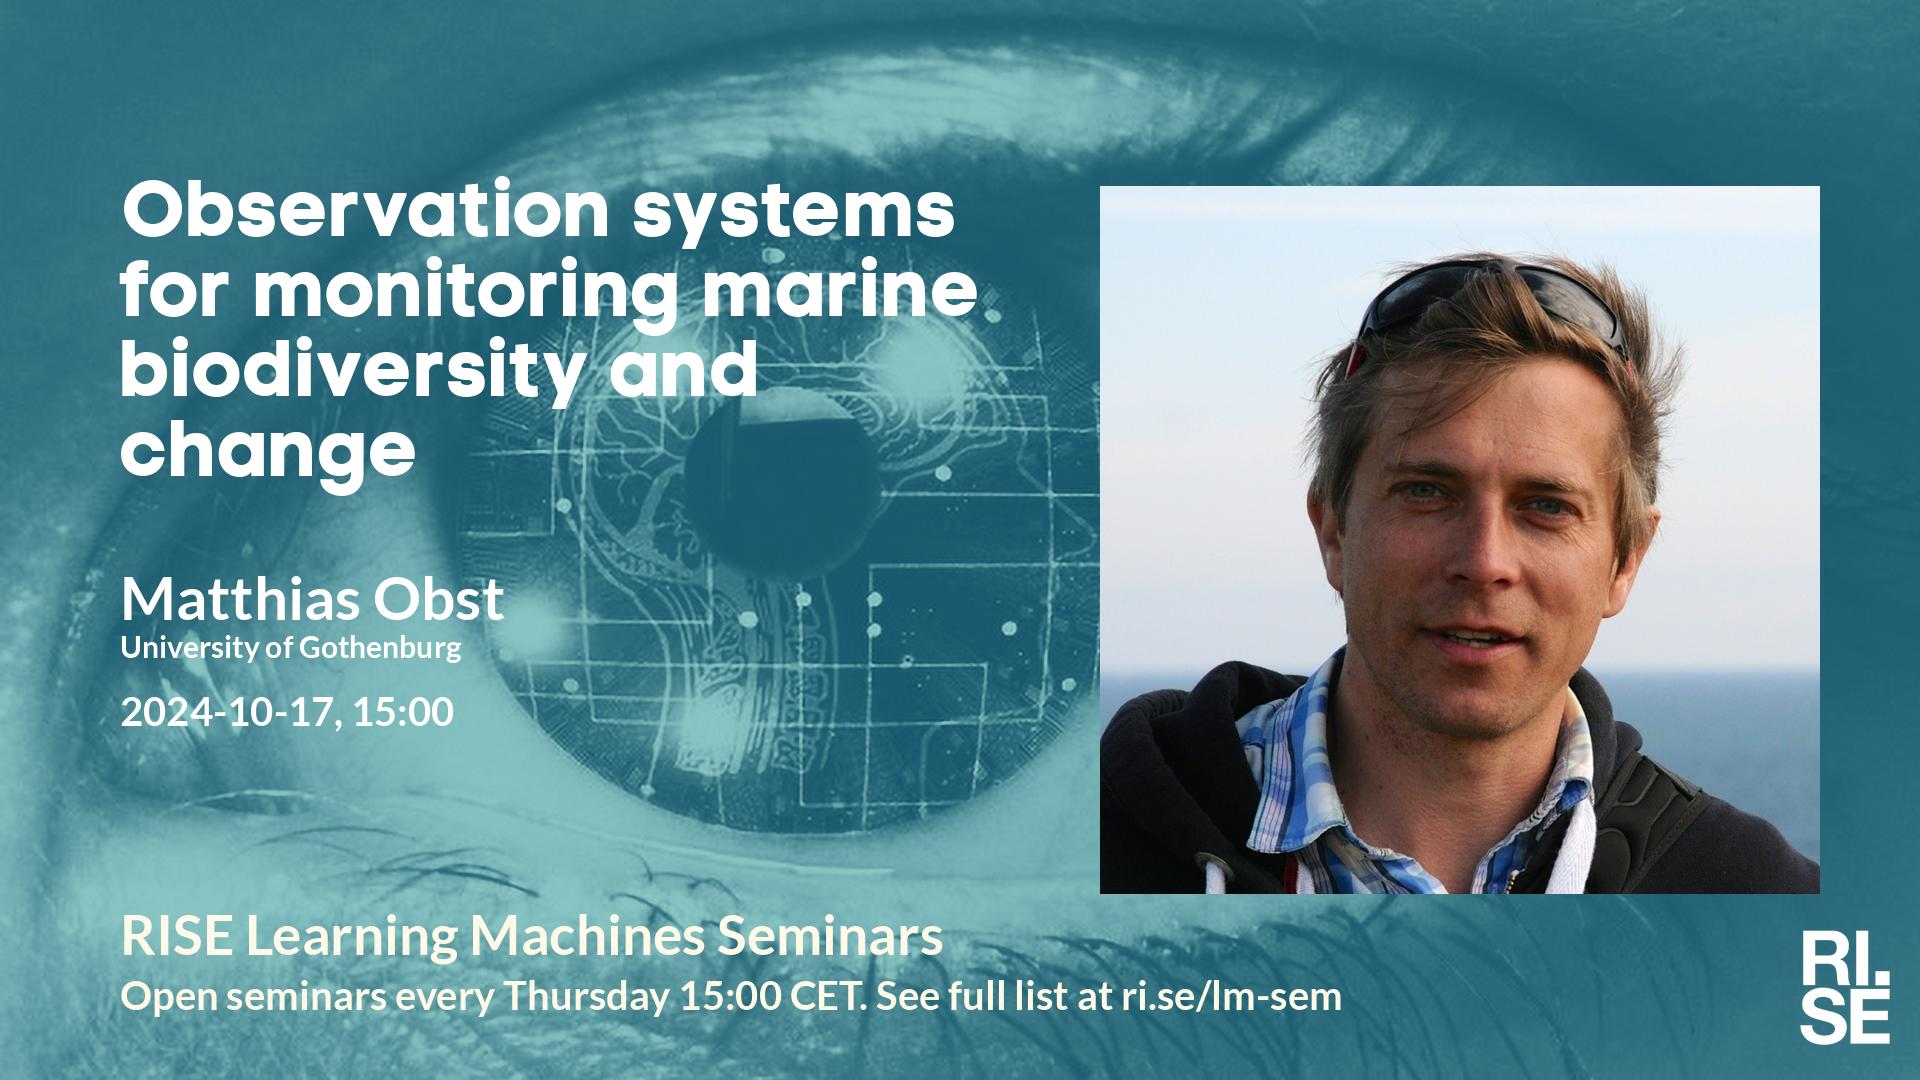
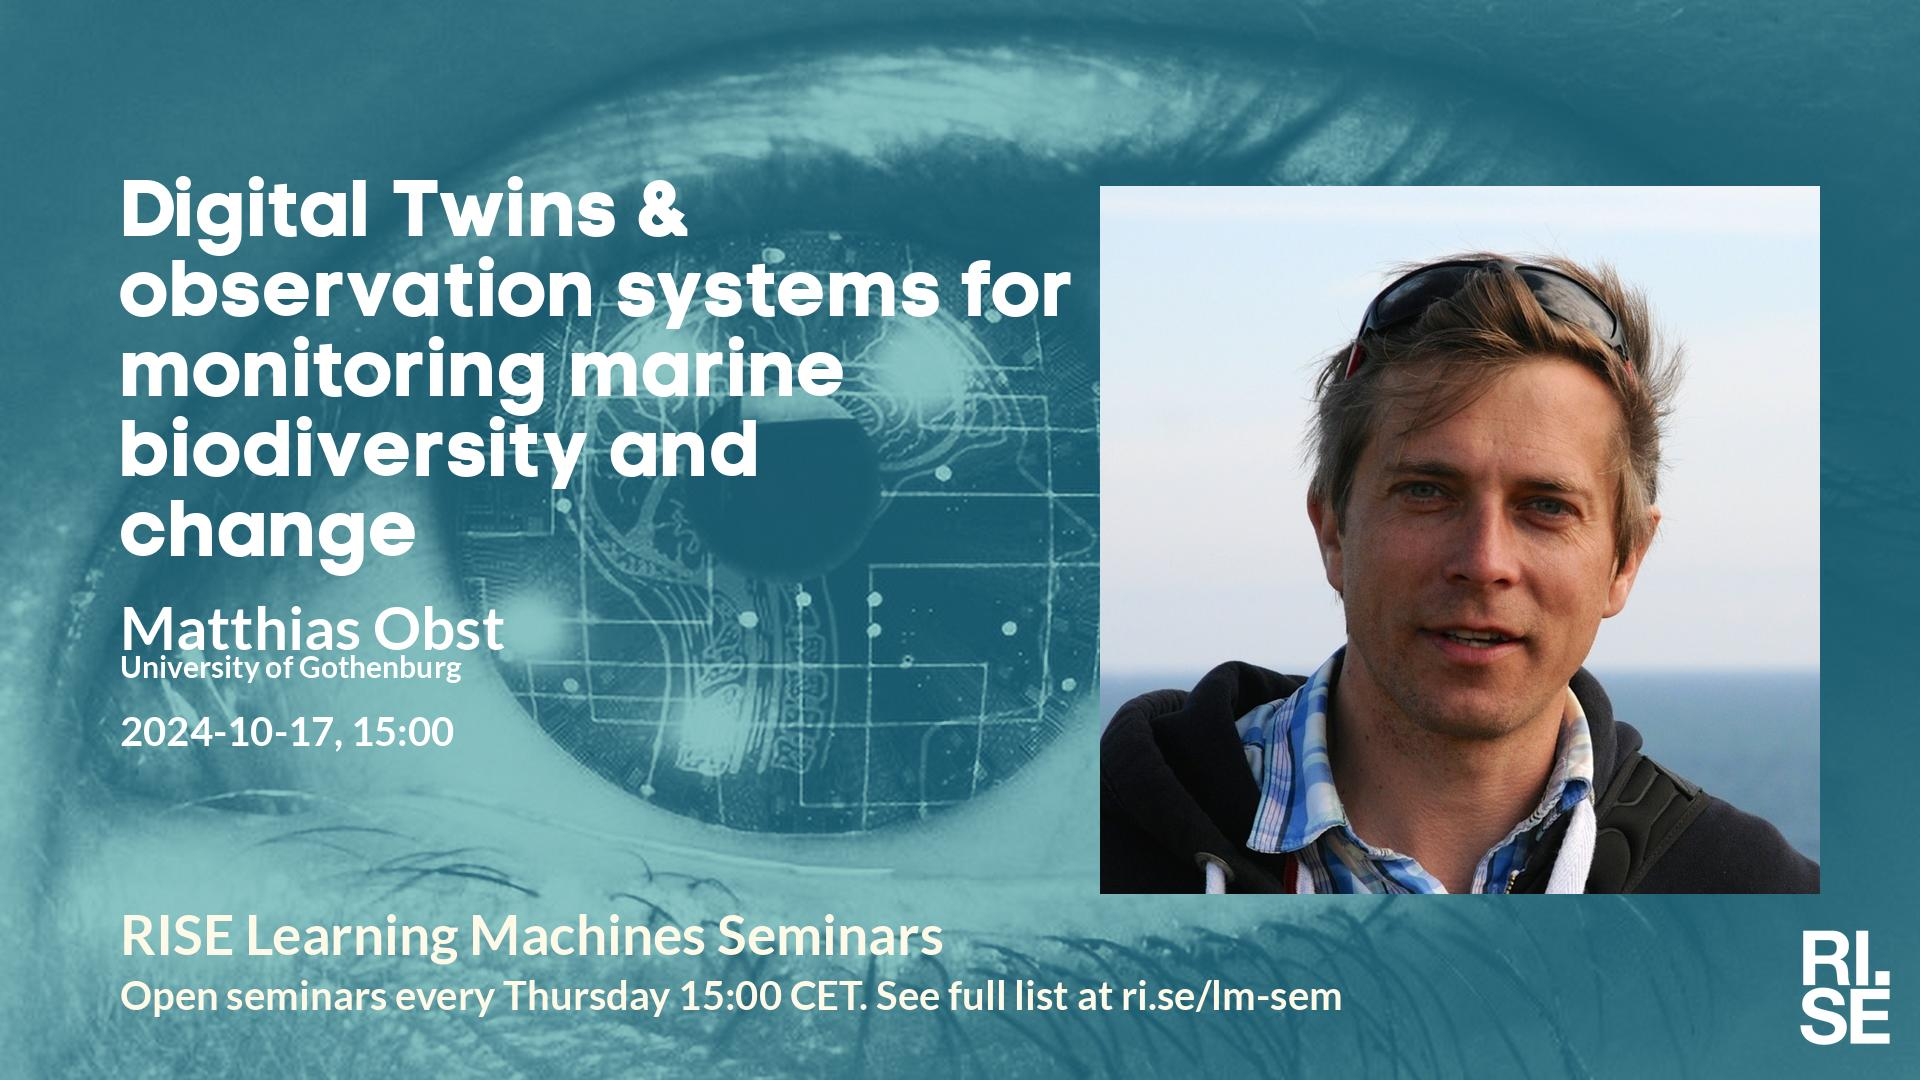
Updated plan on web site.

Changed region(s): [[0.0625, 0.1528, 0.5625, 0.7028]]

diff --git a/lm/index.md b/lm/index.md
@@ -13,14 +13,14 @@ table {border-collapse: collapse;}
 |  2024-09-26  |  [Charlie Fieseler, University of Vienna](2024-09-26.md)  |  [photo](photo-charlie-fieseler.jpg)  |  [social media ](social-media-charlie-fieseler.jpg)  |  [meeting backdrop ](meeting-backdrop-charlie-fieseler.jpg)  |  [youtube thumbnail ](youtube-thumbnail-charlie-fieseler.jpg)  |  STABP  |
 |  2024-10-03  |  [Jakob Ambsdorf, University of Copenhagen & Pioneer Centre for AI](2024-10-03.md)  |  [photo](photo-jakob-ambsdorf.jpg)  |  [social media ](social-media-jakob-ambsdorf.jpg)  |  [meeting backdrop ](meeting-backdrop-jakob-ambsdorf.jpg)  |  [youtube thumbnail ](youtube-thumbnail-jakob-ambsdorf.jpg)  |  STABP  |
 | <span style="color:red"> 2024-10-10 </span> | <span style="color:red"> CANCELLED </span> | <span style="color:red">  </span> | <span style="color:red">  </span> | <span style="color:red">  </span> | <span style="color:red">  </span> | <span style="color:red"> CANCELLED </span> |
-|  2024-10-17  |  [Matthias Obst, University of Gothenburg](2024-10-17.md)  |  [photo](photo-matthias-obst.jpg)  |  [social media ](social-media-matthias-obst.jpg)  |  [meeting backdrop ](meeting-backdrop-matthias-obst.jpg)  |  [youtube thumbnail ](youtube-thumbnail-matthias-obst.jpg)  |  ST~~AB~~P  |
+|  2024-10-17  |  [Matthias Obst, University of Gothenburg](2024-10-17.md)  |  [photo](photo-matthias-obst.jpg)  |  [social media ](social-media-matthias-obst.jpg)  |  [meeting backdrop ](meeting-backdrop-matthias-obst.jpg)  |  [youtube thumbnail ](youtube-thumbnail-matthias-obst.jpg)  |  STABP  |
 |  2024-10-24  |  [Ankit Kariryaa, University of Copenhagen](2024-10-24.md)  |    |  [social media ](social-media-ankit-kariryaa.jpg)  |  [meeting backdrop ](meeting-backdrop-ankit-kariryaa.jpg)  |  [youtube thumbnail ](youtube-thumbnail-ankit-kariryaa.jpg)  |  S~~TABP~~  |
 | <span style="color:red"> 2024-10-31 </span> | <span style="color:red"> Höstlov </span> | <span style="color:red">  </span> | <span style="color:red">  </span> | <span style="color:red">  </span> | <span style="color:red">  </span> | <span style="color:red"> CANCELLED </span> |
 |  2024-11-07  |  [Joel Oskarsson, Linköping University](2024-11-07.md)  |    |  [social media ](social-media-joel-oskarsson.jpg)  |  [meeting backdrop ](meeting-backdrop-joel-oskarsson.jpg)  |  [youtube thumbnail ](youtube-thumbnail-joel-oskarsson.jpg)  |  S~~TABP~~  |
 |  2024-11-14  |  [Abdulhakim Abdi, Lund University](2024-11-14.md)  |  [photo](photo-abdulhakim-abdi.jpg)  |  [social media ](social-media-abdulhakim-abdi.jpg)  |  [meeting backdrop ](meeting-backdrop-abdulhakim-abdi.jpg)  |  [youtube thumbnail ](youtube-thumbnail-abdulhakim-abdi.jpg)  |  S~~TAB~~P  |
 |  2024-11-21  |  [Alp Kucukelbir, Columbia University](2024-11-21.md)  |    |  [social media ](social-media-alp-kucukelbir.jpg)  |  [meeting backdrop ](meeting-backdrop-alp-kucukelbir.jpg)  |  [youtube thumbnail ](youtube-thumbnail-alp-kucukelbir.jpg)  |  S~~TABP~~  |
 |  2024-11-28  |  [Alireza Taheri Dehkordi, Lund University](2024-11-28.md)  |    |  [social media ](social-media-alireza-taheri-dehkordi.jpg)  |  [meeting backdrop ](meeting-backdrop-alireza-taheri-dehkordi.jpg)  |  [youtube thumbnail ](youtube-thumbnail-alireza-taheri-dehkordi.jpg)  |  S~~TABP~~  |
-| <span style="color:grey"> 2024-12-05 </span> | <span style="color:grey"> Jonas A. ? </span> | <span style="color:grey">  </span> | <span style="color:grey">  </span> | <span style="color:grey">  </span> | <span style="color:grey">  </span> | <span style="color:grey"> ?~~TABP~~ </span> |
+| <span style="color:grey"> 2024-12-05 </span> | <span style="color:grey"> Jonas A. ? </span> | <span style="color:grey">  </span> | <span style="color:grey">  </span> | <span style="color:grey">  </span> | <span style="color:grey">  </span> | <span style="color:grey"> S~~TABP~~ </span> |
 |  2024-12-12  |  [Amal Nammouchi, Karlstad University and AfriClimate AI](2024-12-12.md)  |    |  [social media ](social-media-amal-nammouchi.jpg)  |  [meeting backdrop ](meeting-backdrop-amal-nammouchi.jpg)  |  [youtube thumbnail ](youtube-thumbnail-amal-nammouchi.jpg)  |  S~~TABP~~  |
 | <span style="color:red"> 2024-12-19 </span> | <span style="color:red"> Jullov </span> | <span style="color:red">  </span> | <span style="color:red">  </span> | <span style="color:red">  </span> | <span style="color:red">  </span> | <span style="color:red"> CANCELLED </span> |
 | <span style="color:red"> 2024-12-26 </span> | <span style="color:red"> Jullov </span> | <span style="color:red">  </span> | <span style="color:red">  </span> | <span style="color:red">  </span> | <span style="color:red">  </span> | <span style="color:red"> CANCELLED </span> |

diff --git a/lm/2024-10-17.md b/lm/2024-10-17.md
@@ -4,13 +4,15 @@ metatags: "<meta name=\"robots\" content=\"noindex,nofollow\" />"
 ---
 Welcome to this week's Learning Machines seminar.
 
-**Title:** Observation systems for monitoring marine biodiversity and change
+**Title:** Digital Twins & observation systems for monitoring marine biodiversity and change
 
 **Speaker:** Matthias Obst, University of Gothenburg
 
-**Abstract:** N/A
+**Abstract:** Biological monitoring needs to improve radically to serve our understanding of marine ecosystems and biodiversity under long-term global change and multiple stressors. Over the last decade many new monitoring technologies including genomics and image-based surveillance have become available to marine biologists. However, the transformation to such new high-throughput methods is not trivial as they produce enormous volumes of data. The Digital Twin of the Ocean (DTO) program of the European Commission will answer to these challenges and develop an analytical environment that brings together data, models, and algorithms to support effective monitoring, restoration, and management of marine ecosystems by 2030. Sweden plays an active role in the DTO program, and this talk will introduce some examples of new monitoring methods, tools and analytical services developed by Swedish partners, including the Genetic Biodiversity Observatory Networks and the Swedish platform for subsea image analysis (SUBSIM).
 
-**About the speaker:** N/A
+**About the speaker:** Matthias Obst has 17 years of experience as academic researcher, infrastructure developer, project manager and entrepreneur in the marine environmental sector. His scientific expertise is in the area of marine evolution, benthic ecology and biodiversity monitoring. In his research, he establishes and tests harmonized and automated observation systems for biological diversity in the sea, spanning from genetic sensors to citizen observatories. He is also developing methods and infrastructure to capture and integrate such data to enable inter-disciplinary research for the protection and management of marine life.        
+
+He is the consortium chair of the Swedish Biodiversity Data Infrastructure (www.biodiversitydata.se) and responsible for user support and research on the infrastructure. As part of this assignment he is in the organising committee for the upcoming a conference on “Data-driven Ecology” https://biodiversitydata.se/event/sbdi-days-2024-towards-data-driven-ecology/. He developed one of the leading eDNA labs in the country (SweDNA lab), also including a commercial branch (www.seanalytics.se) for DNA-based monitoring. Their tools and services are used in both in evolutionary biology as well as conservation research.
 
 **Location:** Lindholmsallén 10, Gothenburg, or online using Zoom.
 
